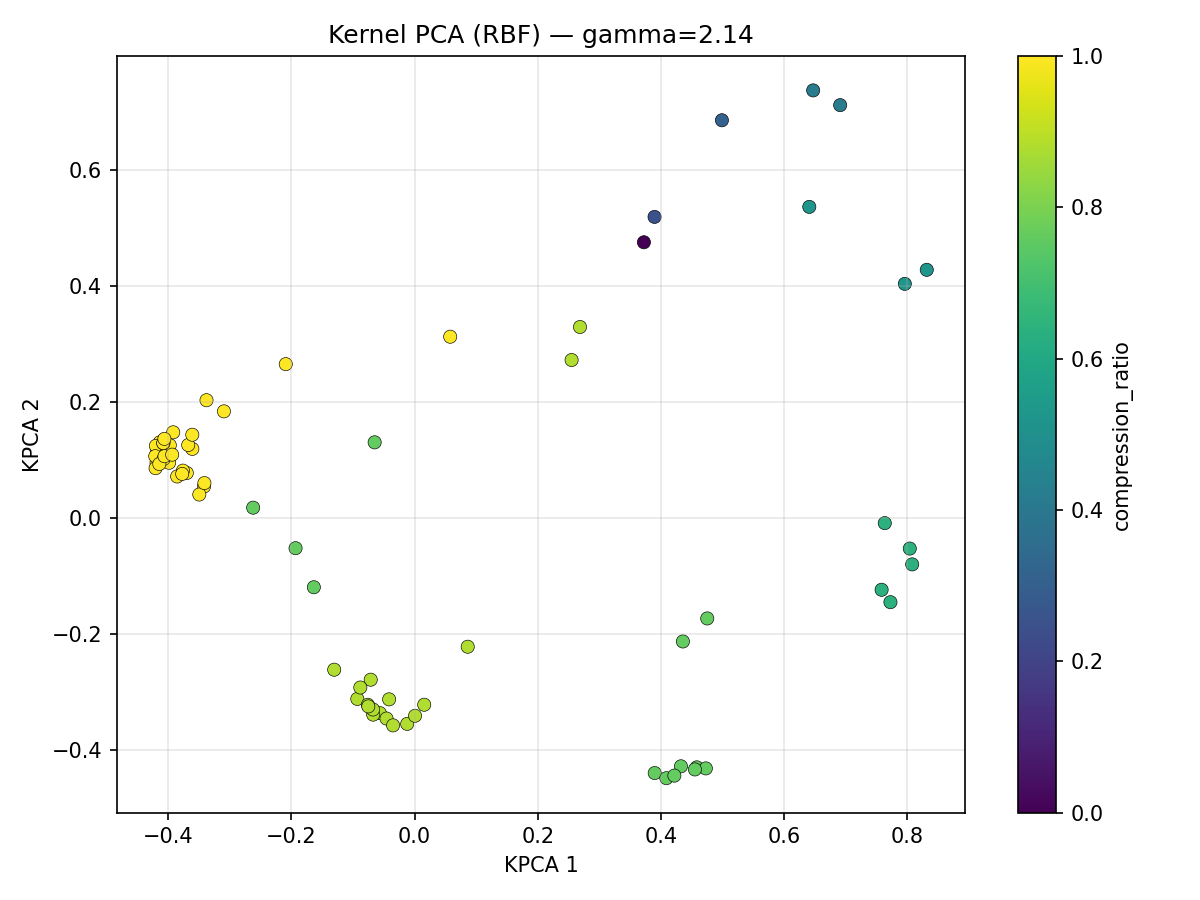
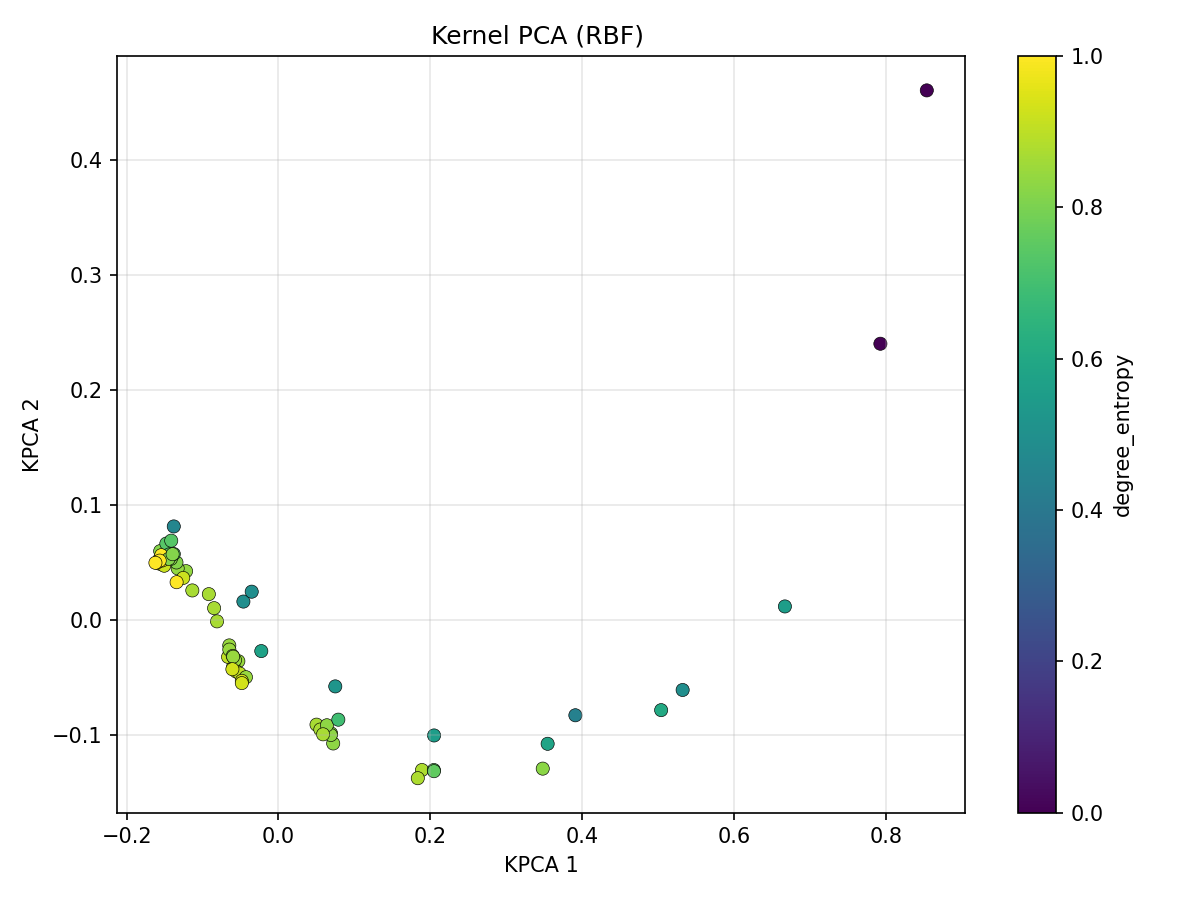
feat: Add Kernel PCA implementation and update data processing for visualization

diff --git a/data/kpcaA.py b/data/kpcaA.py
@@ -1,0 +1,72 @@
+import pandas as pd
+from sklearn.decomposition import KernelPCA
+from sklearn.preprocessing import StandardScaler
+import matplotlib.pyplot as plt
+from mpl_toolkits.mplot3d import Axes3D
+import numpy as np
+from sklearn.metrics.pairwise import rbf_kernel
+from sklearn.preprocessing import KernelCenterer
+from scipy.spatial.distance import pdist, squareform
+from scipy.stats import spearmanr
+
+
+df = pd.read_csv("numeric_only_normalized.csv")
+
+# π.χ. target
+y = df["Tc"].values
+
+scaler = StandardScaler()
+X_scaled = scaler.fit_transform(df)
+
+def spectral_gap_for_gamma(X_scaled, gamma, top_k=None):
+    # Gram
+    K = rbf_kernel(X_scaled, X_scaled, gamma=gamma)
+    # Centering
+    kc = KernelCenterer()
+    Kc = kc.fit_transform(K)
+    # Eigenvalues (συμμετρικός πίνακας)
+    w = np.linalg.eigvalsh(Kc)
+    w = np.sort(w)[::-1]   # φθίνουσα
+    if top_k:
+        w = w[:top_k]
+    diffs = np.abs(np.diff(w))
+    gap = diffs.max() if len(diffs) else 0.0
+    gap_idx = diffs.argmax() + 1 if len(diffs) else 1
+    return gap, gap_idx, w
+
+gammas = np.logspace(-3, 1, 30)  # π.χ. 0.001 έως 10
+results = []
+for g in gammas:
+    gap, d_est, eigvals = spectral_gap_for_gamma(X_scaled, g)
+    results.append((g, gap, d_est))
+
+# επίλογη
+g_star, gap_star, d_star = max(results, key=lambda t: t[1])
+print(f"Best gamma={g_star:.5g}, spectral gap={gap_star:.3f}, intrinsic d≈{d_star}")
+
+n_components = max(2, d_star + 1)  # π.χ. 2–5
+kpca = KernelPCA(n_components=n_components, kernel='rbf', gamma=g_star, fit_inverse_transform=False)
+Z = kpca.fit_transform(X_scaled)   # embedding [N, n_components]
+
+# 2D scatter
+plt.figure(figsize=(6,5))
+sc = plt.scatter(Z[:,0], Z[:,1], c=y, s=35, edgecolors='k', linewidths=0.3)
+plt.xlabel("KPCA 1"); plt.ylabel("KPCA 2"); plt.title("KPCA embedding")
+plt.colorbar(sc, label="Enthalpy of combustion")
+plt.tight_layout(); plt.show()
+
+# Distance-preservation (Spearman μεταξύ αποστάσεων)
+D_X = squareform(pdist(X_scaled))
+D_Z = squareform(pdist(Z))
+rho, _ = spearmanr(D_X.ravel(), D_Z.ravel())
+print(f"Distance monotonicity (Spearman) ≈ {rho:.3f}")
+
+
+gap, d_est, eigvals = spectral_gap_for_gamma(X_scaled, g_star)
+plt.figure(figsize=(6,4))
+plt.plot(eigvals, marker='o')
+plt.yscale('log'); plt.xlabel('Index'); plt.ylabel('Eigenvalue (log)')
+plt.title(f'Kernel eigen-spectrum (gamma={g_star:.3g})')
+plt.tight_layout(); plt.show()
+print(f"Estimated intrinsic dimension (gap index): {d_est}")
+

diff --git a/data/run_kpca.py b/data/run_kpca.py
@@ -1,7 +1,7 @@
 import os
 import sys
 import json
-import math
+#import math
 from typing import Optional
 
 import numpy as np
@@ -95,7 +95,7 @@ def run_kpca(
         gamma = float(gamma)
         print(f"Using provided gamma: {gamma:.6g}")
 
-    kpca = KernelPCA(n_components=n_components, kernel="rbf", gamma=gamma, fit_inverse_transform=False)
+    kpca = KernelPCA(n_components=n_components, kernel="rbf", gamma=0.1, fit_inverse_transform=False)
     X_kpca = kpca.fit_transform(X)
 
     # Append KPCA components
@@ -119,14 +119,14 @@ def run_kpca(
             x = out_df["kpca_1"].to_numpy()
             y = out_df["kpca_2"].to_numpy()
             # Color by number_ofC if available
-            if "compression_ratio" in df.columns:
-                c = df["compression_ratio"].to_numpy()
+            if "degree_entropy" in df.columns:
+                c = df["degree_entropy"].to_numpy()
                 sc = plt.scatter(x, y, c=c, cmap="viridis", s=40, edgecolors="k", linewidths=0.3)
                 cbar = plt.colorbar(sc)
-                cbar.set_label("compression_ratio")
+                cbar.set_label("degree_entropy")
             else:
                 plt.scatter(x, y, color="tab:blue", s=40, edgecolors="k", linewidths=0.3)
-            plt.title(f"Kernel PCA (RBF) — gamma={gamma:.3g}")
+            plt.title(f"Kernel PCA (RBF) ")
             plt.xlabel("KPCA 1")
             plt.ylabel("KPCA 2")
             plt.grid(True, alpha=0.3)

diff --git a/data/kpca3D.py b/data/kpca3D.py
@@ -1,0 +1,39 @@
+import pandas as pd
+from sklearn.decomposition import KernelPCA
+from sklearn.preprocessing import StandardScaler
+import matplotlib.pyplot as plt
+from mpl_toolkits.mplot3d import Axes3D
+
+df = pd.read_csv("numeric_only_normalized.csv")
+
+scaler = StandardScaler()
+X_scaled = scaler.fit_transform(df)
+
+# --- Εφαρμογή Kernel PCA ---
+kpca = KernelPCA(n_components=3, kernel='rbf', gamma=2.13)
+X_kpca = kpca.fit_transform(X_scaled)
+
+# --- 3D Plot ---
+fig = plt.figure(figsize=(10, 7))
+ax = fig.add_subplot(111, projection='3d')
+
+# Αν έχεις κάποια στήλη π.χ. "number_ofC" για χρωματισμό:
+if "degree_entropy" in df.columns:
+    colors = df["degree_entropy"]
+    sc = ax.scatter(X_kpca[:,0], X_kpca[:,1], X_kpca[:,2],
+                    c=colors, cmap='viridis', s=60, edgecolors='k')
+    cbar = plt.colorbar(sc)
+    cbar.set_label("Entropy")
+else:
+    ax.scatter(X_kpca[:,0], X_kpca[:,1], X_kpca[:,2],
+               color='tab:blue', s=60, edgecolors='k')
+
+ax.set_title("3D Kernel PCA (RBF kernel)")
+ax.set_xlabel("KPCA 1")
+ax.set_ylabel("KPCA 2")
+ax.set_zlabel("KPCA 3")
+
+plt.show()
+
+out_df = pd.DataFrame(X_kpca, columns=["kpca_1", "kpca_2", "kpca_3"])
+out_df.to_csv("output_kpca3d.csv", index=False)
